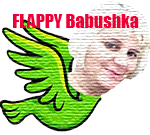
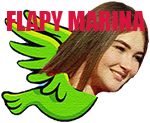
marina version

diff --git a/game.js b/game.js
@@ -90,7 +90,7 @@
  const pipe = {
      top : {sprite : new Image()},
      bot : {sprite : new Image()},
-     gap:120,
+     gap:140,
      moved: true,
      pipes : [],
      draw : function(){
